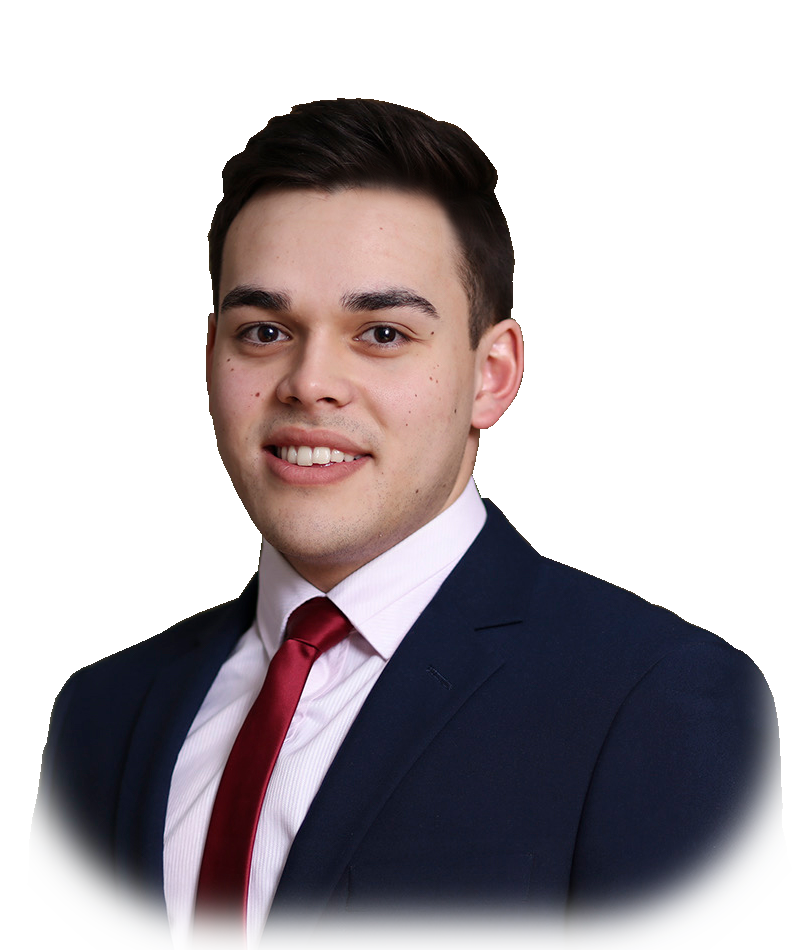
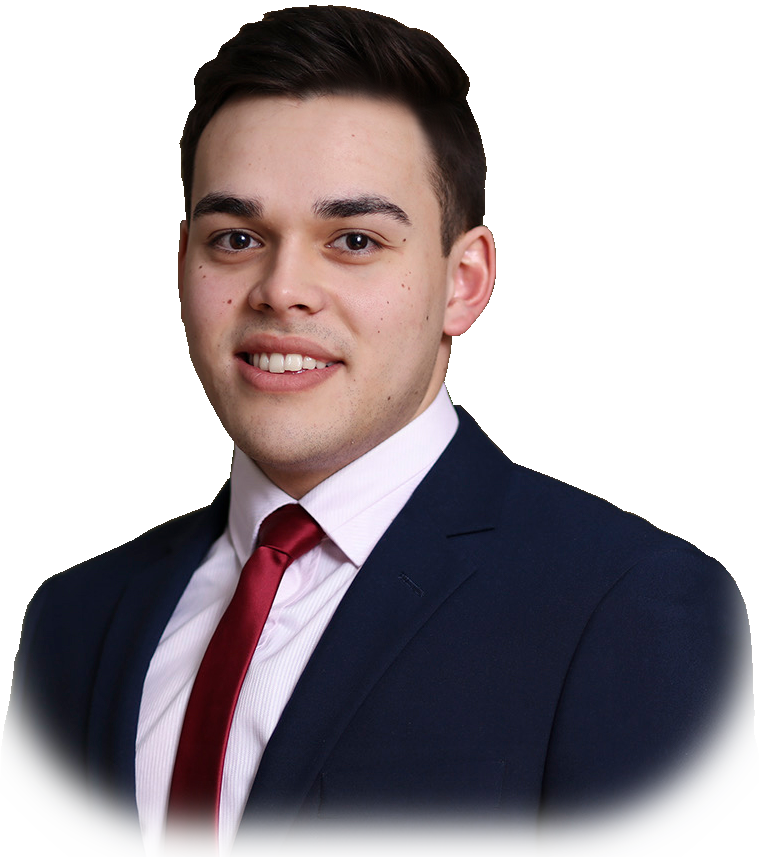
Fine tuning CSS and ensuring optimisation for all screen sizes

Changed region(s): [[0.0, 0.0, 1.0, 1.0], [0.697, 0.9102, 0.7273, 0.9708]]

diff --git a/style.css b/style.css
@@ -5,7 +5,10 @@ body {
     flex-direction: column;
     background-color: black;
     color: rgb(255, 255, 255);
-    padding: 0.5rem;
+    padding: 2vh;
+    margin: 0;
+    max-height: 100vh;
+    max-width: 100vw;
 }
 
 a {
@@ -16,11 +19,17 @@ a {
     font-size: 1rem;
 }
 
+a:hover {
+    text-decoration: underline greenyellow;
+    color: greenyellow
+}
+
 header {
     display: flex;
     justify-content: space-between;
     align-items: center;
-    margin: 0 0 1rem 0;
+    height: 10vh;
+    margin: 0 0 5vh 0;
 }
 
 ul a {
@@ -28,7 +37,7 @@ ul a {
 }
 
 #logo {
-    width: 3rem
+    width: 3rem;
 }
 
 #hero {
@@ -36,11 +45,11 @@ ul a {
     justify-content: flex-end;
     align-items: flex-end;
     flex-direction: column;
-    background: url(images/self-portrait.png) black no-repeat top left;
-    background-size: 75vw;
-    height: 100vw;
+    background: url(images/self-portrait.png) black no-repeat top center;
+    background-size: contain;
+    height: 50vh;
     width: 100%;
-    margin: 0 0 2rem 0;
+    margin: 0 0 7.5vh 0;
 }
 
 #hero h3 {
@@ -55,23 +64,130 @@ ul a {
     margin: 1rem 0 1rem 0;
 }
 
-#hero img {
-    width: 50vw;
+#hero h1 span {
+    color: greenyellow;
 }
 
-#contacts-and-socials {
-    font-family: 'Libre Baskerville';
-    font-size: 0.75rem;
+#socials {
+    margin: 0 0 5vh 0;
 }
 
-#contacts-and-socials ul {
+#socials ul {
     display: flex;
     justify-content: space-around;
     padding: 0;
+    margin: 0;
 }
 
 footer {
+    display: flex;
+    flex-direction: column;
+    align-items: center;
+    justify-content: space-between;
     font-family: 'Libre Baskerville';
     font-size: 0.75rem;
-    text-align: center;
+    margin: 0;
+}
+
+footer p {
+    margin: 0.2rem;
+}
+
+@media only screen and (min-width: 600px) and (max-width: 899px) {
+    body {
+        display: flex;
+        flex-direction: column;
+        background-color: black;
+        color: rgb(255, 255, 255);
+        padding: 5vh;
+        margin: 0;
+        max-height: 100vh;
+    }
+
+    #hero {
+        justify-content: center;
+    }
+
+    #hero h1 {
+        font-size: 2.25rem;
+    }
+
+    #hero h3 {
+        font-size: 1.5rem;
+    }
+
+    a {
+        font-size: 1.5rem;
+    }
+
+    #logo {
+        width: 4rem;
+    }
+
+    #socials {
+        margin: 0;
+    }
+    
+    #socials ul {
+        display: flex;
+        justify-content: center;
+        padding: 0;
+        margin: 0;
+    }
+}
+
+@media only screen and (min-width: 900px) {
+    body {
+        display: flex;
+        flex-direction: column;
+        background-color: black;
+        color: rgb(255, 255, 255);
+        padding: 5vh;
+        margin: 0;
+        max-height: 100vh;
+    }
+
+    header {
+        justify-content: space-around;
+    }
+
+    #hero {
+        justify-content: center;
+        align-items: flex-start;
+        height: 60vh;
+        margin: 0;
+    }
+
+    #hero > * {
+        position: relative;
+        left: 55vw;
+    }
+
+    #hero h1 {
+        font-size: 3rem;
+    }
+
+    #hero h3 {
+        font-size: 2rem;
+    }
+
+    a {
+        font-size: 2rem;
+    }
+
+    #logo {
+        width: 5rem;
+    }
+
+    #socials {
+        margin: 0;
+    }
+    
+    #socials ul {
+        display: flex;
+        justify-content: center;
+        padding: 0;
+        margin: 0;
+    }
+
 }

diff --git a/index.html b/index.html
@@ -23,13 +23,11 @@
         <section id="hero">
             <!-- Hero Image -->
             <h3>Hi, my name is</h3>
-            <h1>Adam Dobson.</h1>
+            <h1>Adam Dobson<span>.</span></h1>
             <a class="button" href="">Find Out More</a>
         </section>
         <!-- Full width section, above footer -->
-        <section id="contacts-and-socials">
-            <p>dobson.adam21@gmail.com</p>
-            <p>+61 468 650 913</p>
+        <section id="socials">
             <ul>
                 <a href=""><img src="images/facebook.svg" alt="Facebook"></a>
                 <a href=""><img src="images/twitter.svg" alt="Twitter"></a>
@@ -39,6 +37,8 @@
         </section>
         <!-- Footer -->
         <footer>
+            <p>dobson.adam21@gmail.com</p>
+            <p>+61 468 650 913</p>
             <p>&copy; 2022 Adam Dobson</p>
         </footer>
     </body>
